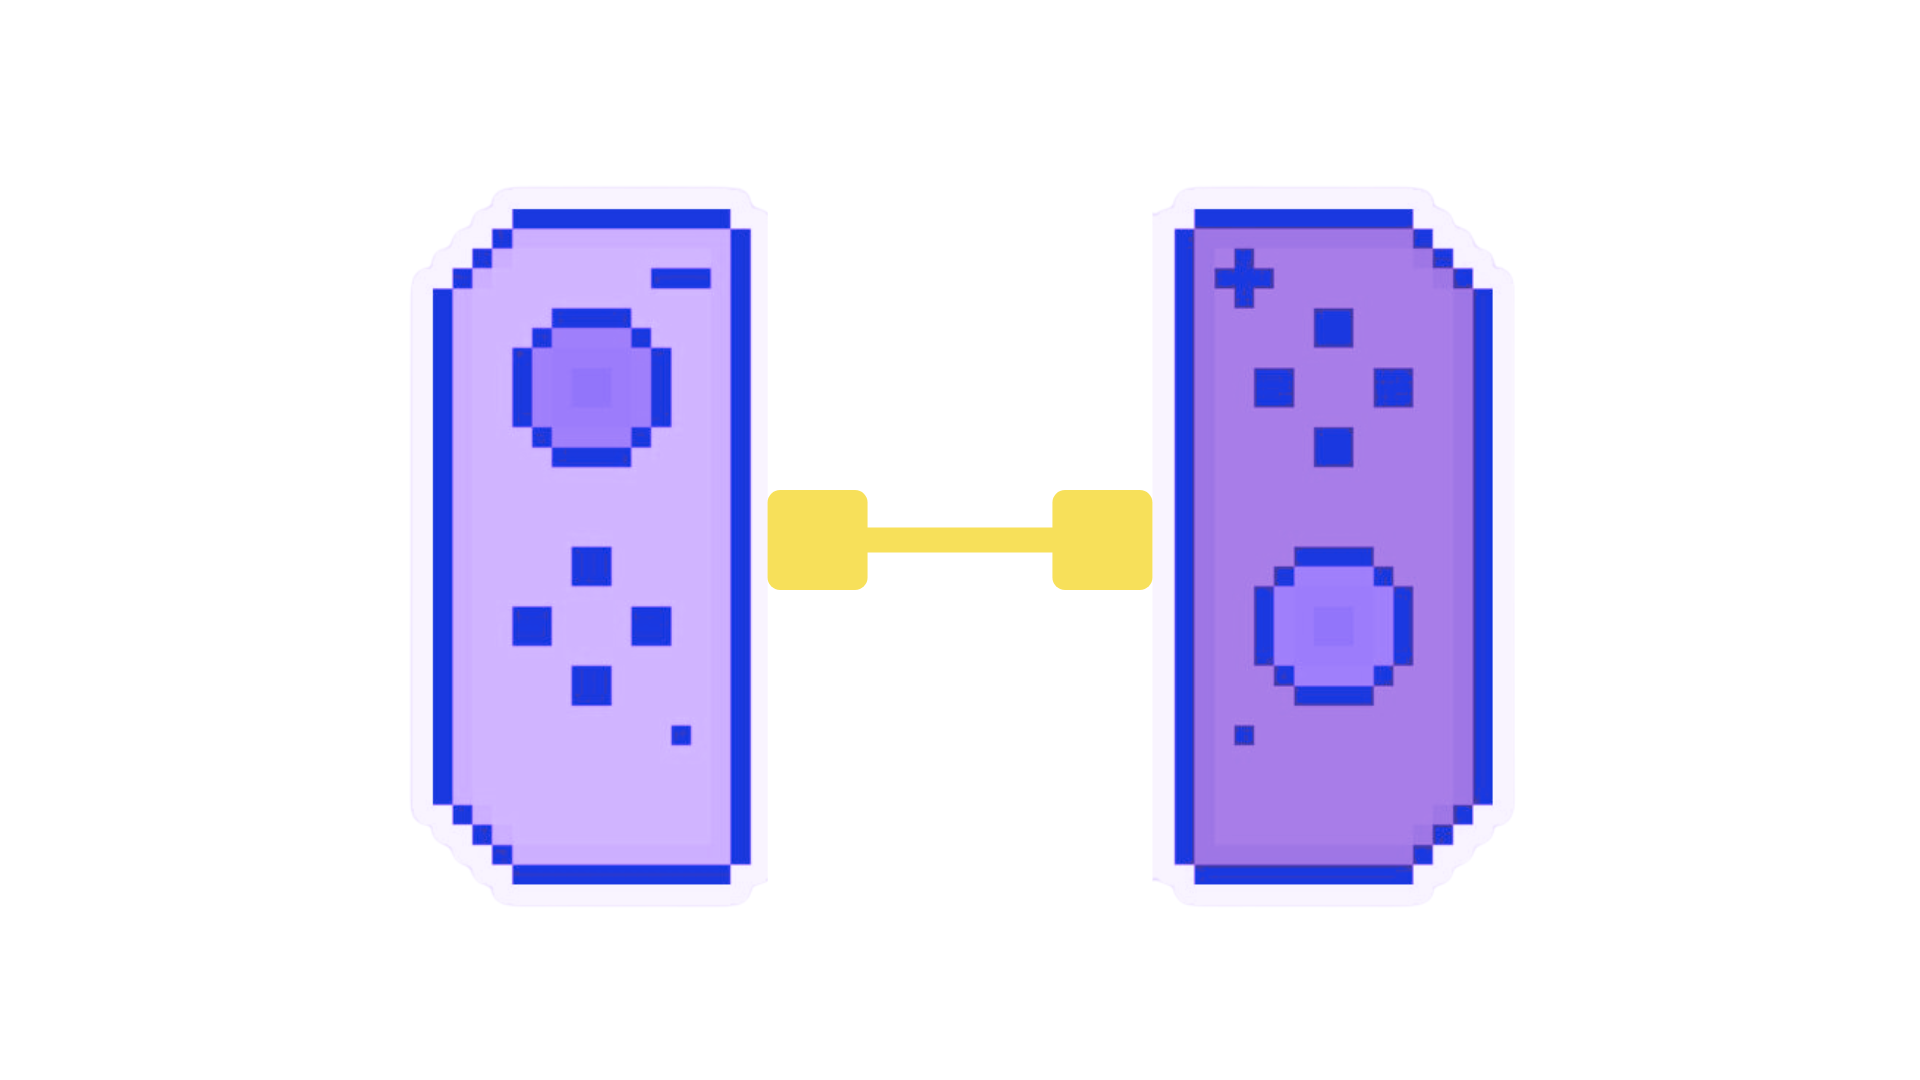
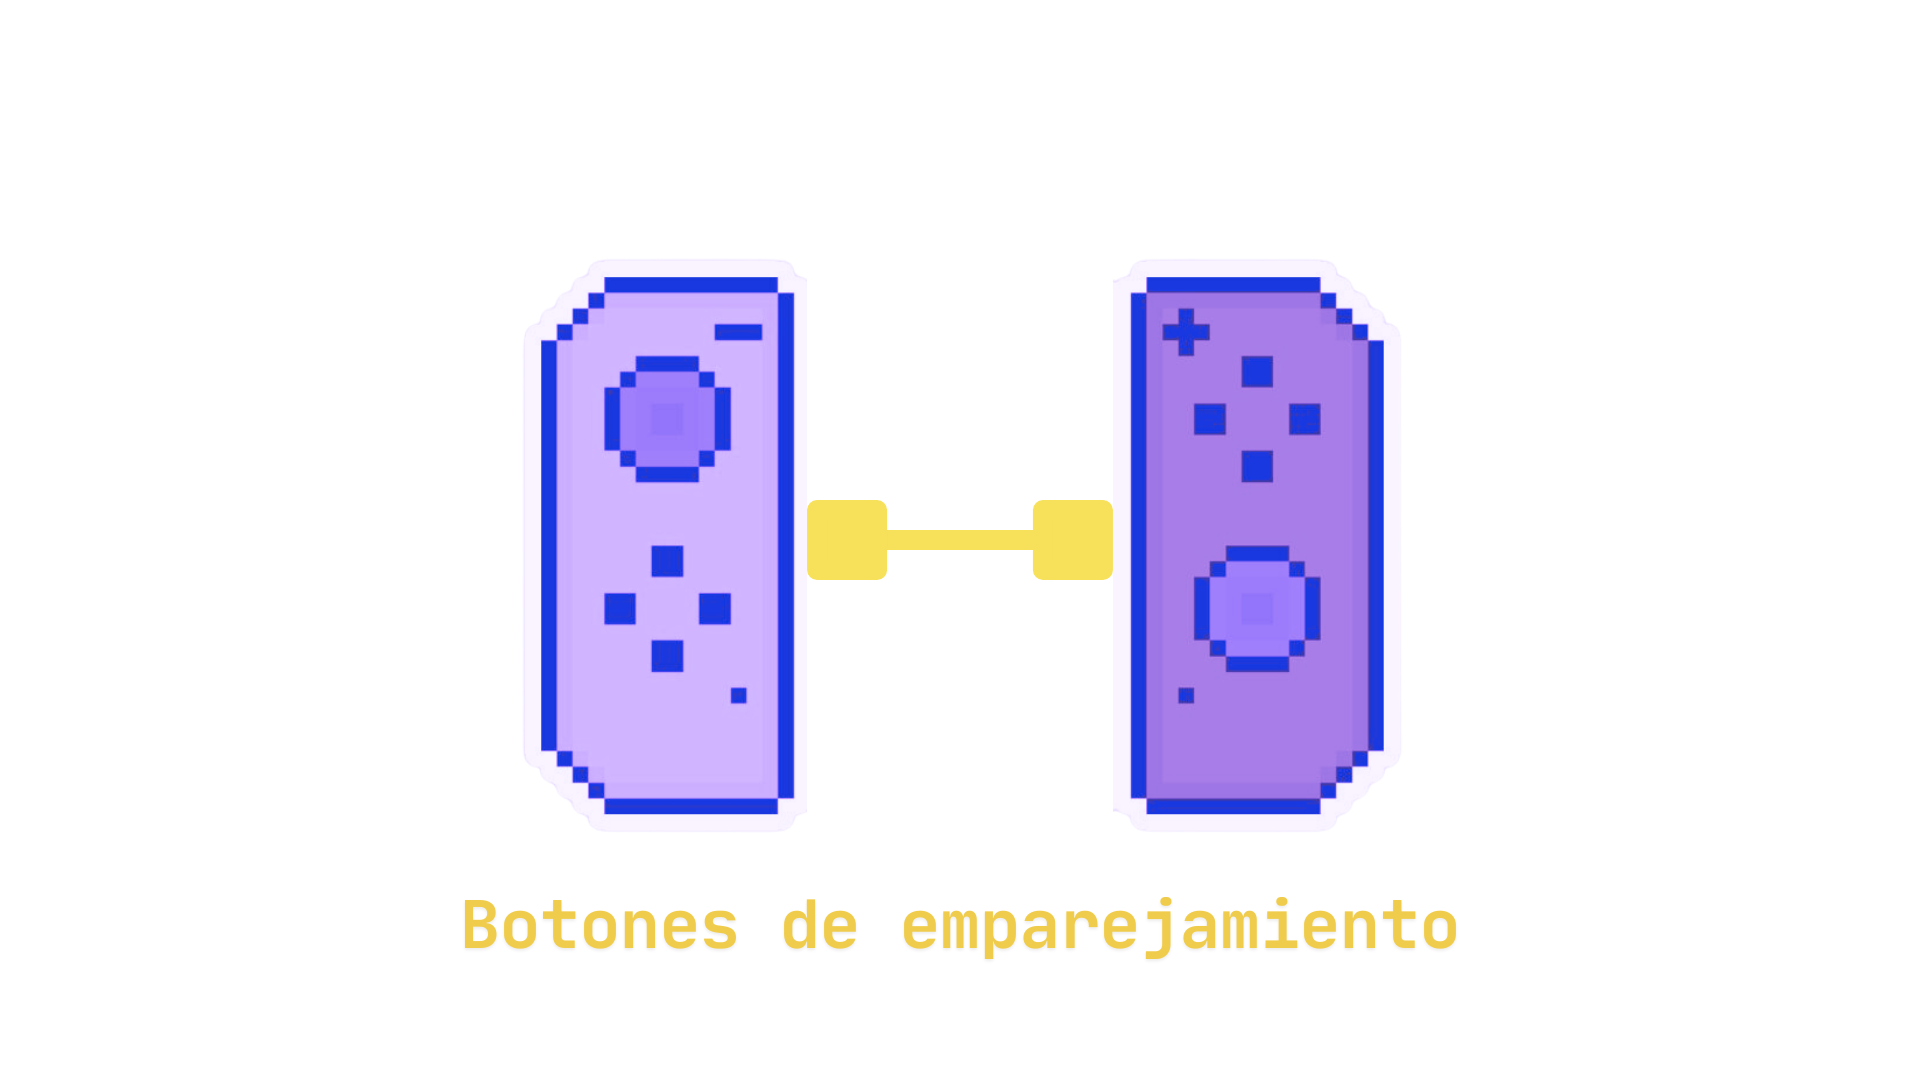
add bluetooth pair controls window

Changed region(s): [[0.2188, 0.1833, 0.7812, 0.8861]]

diff --git a/modules/Interface.py b/modules/Interface.py
@@ -1,5 +1,6 @@
 import pygame
 import json
+import time
 
 class Interface:
     def __init__(self):
@@ -22,7 +23,6 @@ class Interface:
         with open("mainMenuButtons.json", "r") as json_file:
             self.mainMenuButtons = json.load(json_file)
 
-        #TODO Agregar la verdadera imagen de fondo
         self.imgBackground = pygame.image.load("../imgs/arcadiax-background.png")  
 
         self.imgBackground = pygame.transform.scale(self.imgBackground, (self.WIDTH, self.HEIGHT))
@@ -55,8 +55,19 @@ class Interface:
         self.screen.blit(textSurface, textRect) 
 
         return 
+    
+    def drawText(self, text, point, font, color, lineSpacing=5):
+        lines = text.splitlines()
+        x, y = point
+        for line in lines:
+            textSurface = font.render(line, True, color)
+            self.screen.blit(textSurface, (x, y))
+            y += textSurface.get_height() + lineSpacing
+
+        return
 
     def drawButton(self, button):
+
         borderColor = [255, 222, 89]  if button["selected"] else button["borderColor"]
         backgroundColor = [255, 222, 89]  if button["selected"] else button["backgroundColor"]
         
@@ -67,7 +78,7 @@ class Interface:
 
         return 
     
-    def drawMainMenuButtons(self):
+    def drawMainMenu(self):
 
         self.screen.fill(self.DARK_PURPLE) 
         self.screen.blit(self.imgBackground, (0, 0))
@@ -77,10 +88,53 @@ class Interface:
         pygame.display.flip()
         return
     
+    def drawBluetoothPairInstructions(self, imgPath):
+        self.screen.fill(self.DARK_PURPLE) 
+        self.screen.blit(self.imgBackground, (0, 0))
+        header = {
+            "y": 70,
+            "backgroundColor": self.LIGHT_PURPLE,
+            "borderColor": self.LIGHT_PURPLE,
+            "borderWidth": 10,
+            "text": "INSTRUCCIONES DE EMPAREJAMIENTO DE LOS JOY-CON",
+            "fontSize": "big",
+            "textColor": self.DARK_PURPLE,
+            "selected": 1
+        }
+
+        #TODO: Mejorar las instrucciones
+        instructions = """
+        Manten presionado el pequeño botón negro de emparejamiento ubicado al costado del riel de cada Joy-Con
+        hasta que las luces comiencen a destellar.
+
+        En cuanto escuches los destellos: 
+
+        - PRESIONA ZL y ZR al mismo tiempo para usarlo como un único control.
+        - PRESIONA SL y SR en cada joycon para asignarlos como controles individuales.
+        """
+        self.drawButton(header)
+        self.drawText(instructions, (150,150), self.SMALL_FONT, self.LIGHT_PURPLE)
+
+        joyconImg = pygame.image.load(imgPath) 
+        joyconImg= pygame.transform.scale(joyconImg, (self.WIDTH*0.7, self.HEIGHT*0.7))
+
+        imgWidth, imgHeight = joyconImg.get_size()
+        x = (self.WIDTH - imgWidth) // 2
+        y = (self.HEIGHT - imgHeight) // 2
+
+        self.screen.blit(joyconImg, (x, y+100))
+
+
+        pygame.display.flip()
+        return
+    
     def drawMainMenuTest(self):
         running = True
         while running:
-            self.drawMainMenuButtons()
+            self.drawBluetoothPairInstructions("../imgs/pair-joycons.png")
+            time.sleep(10)
+            self.drawBluetoothPairInstructions("../imgs/joy-con.png")
+            time.sleep(10)
             for event in pygame.event.get():
                 if event.type == pygame.QUIT:
                     running = False
